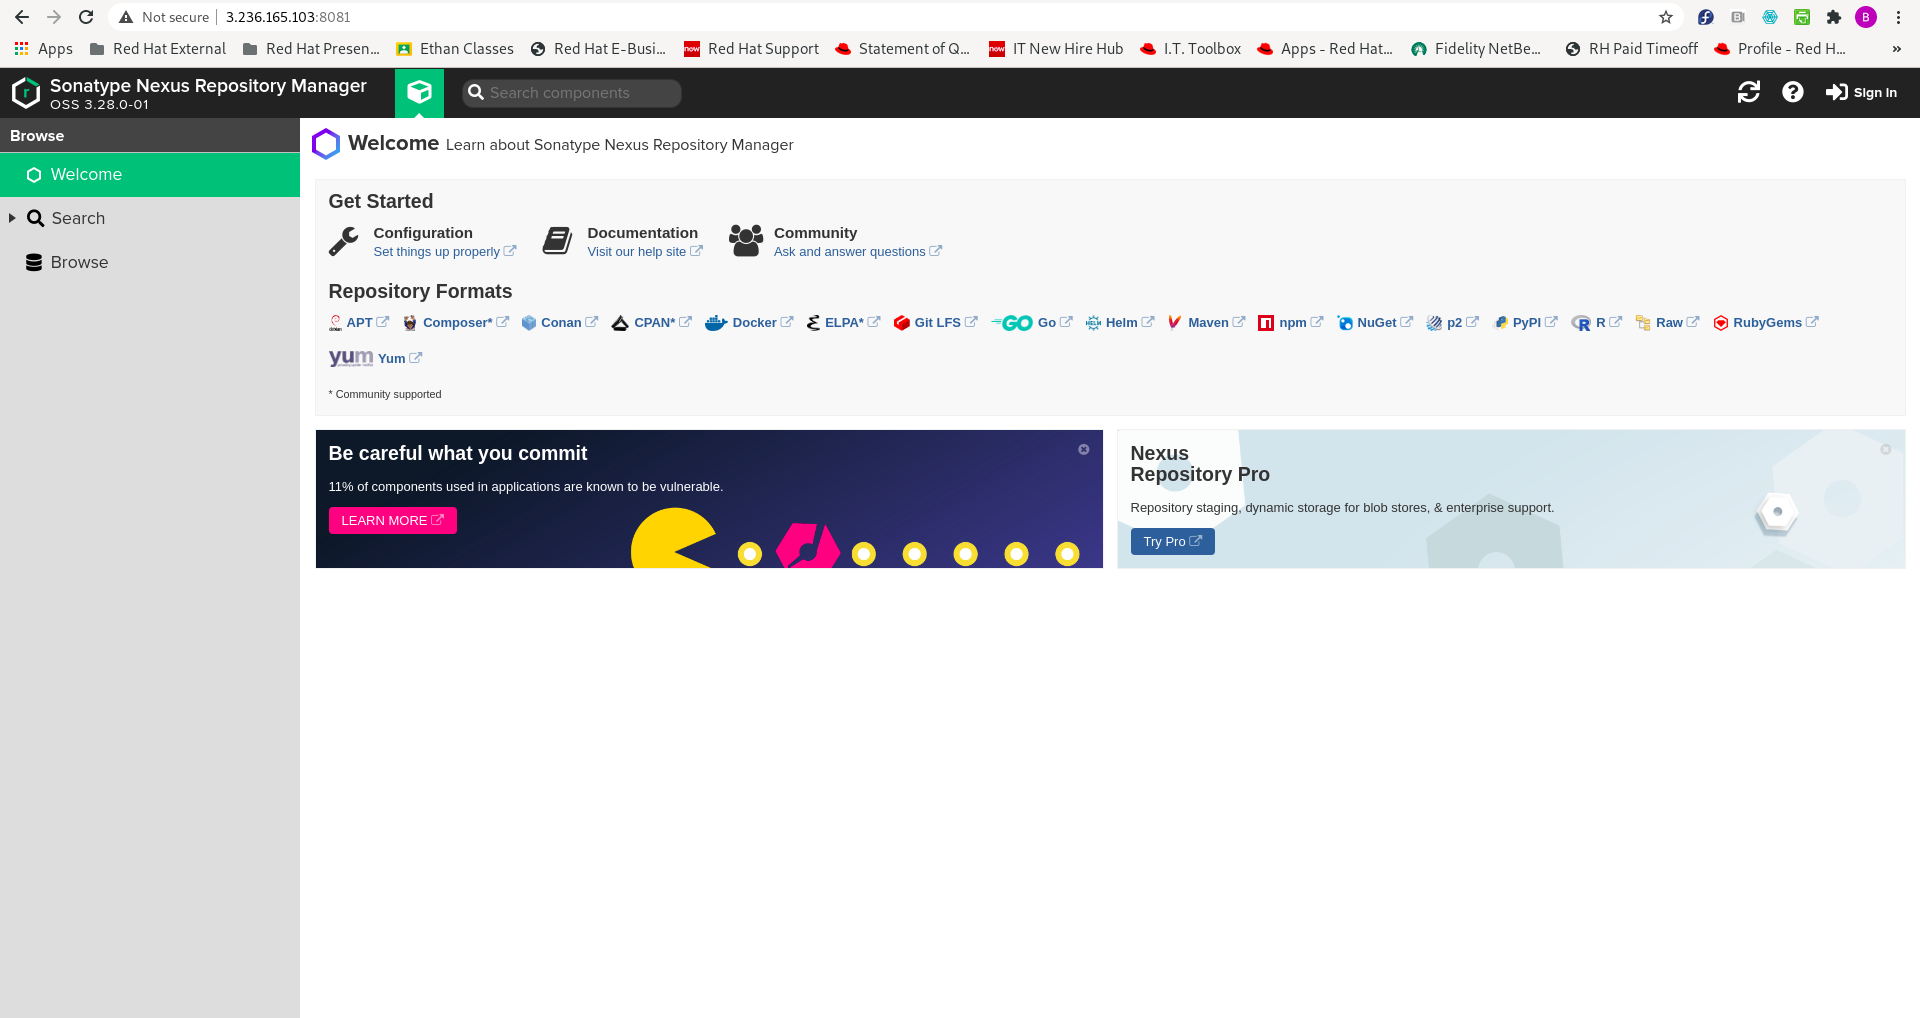
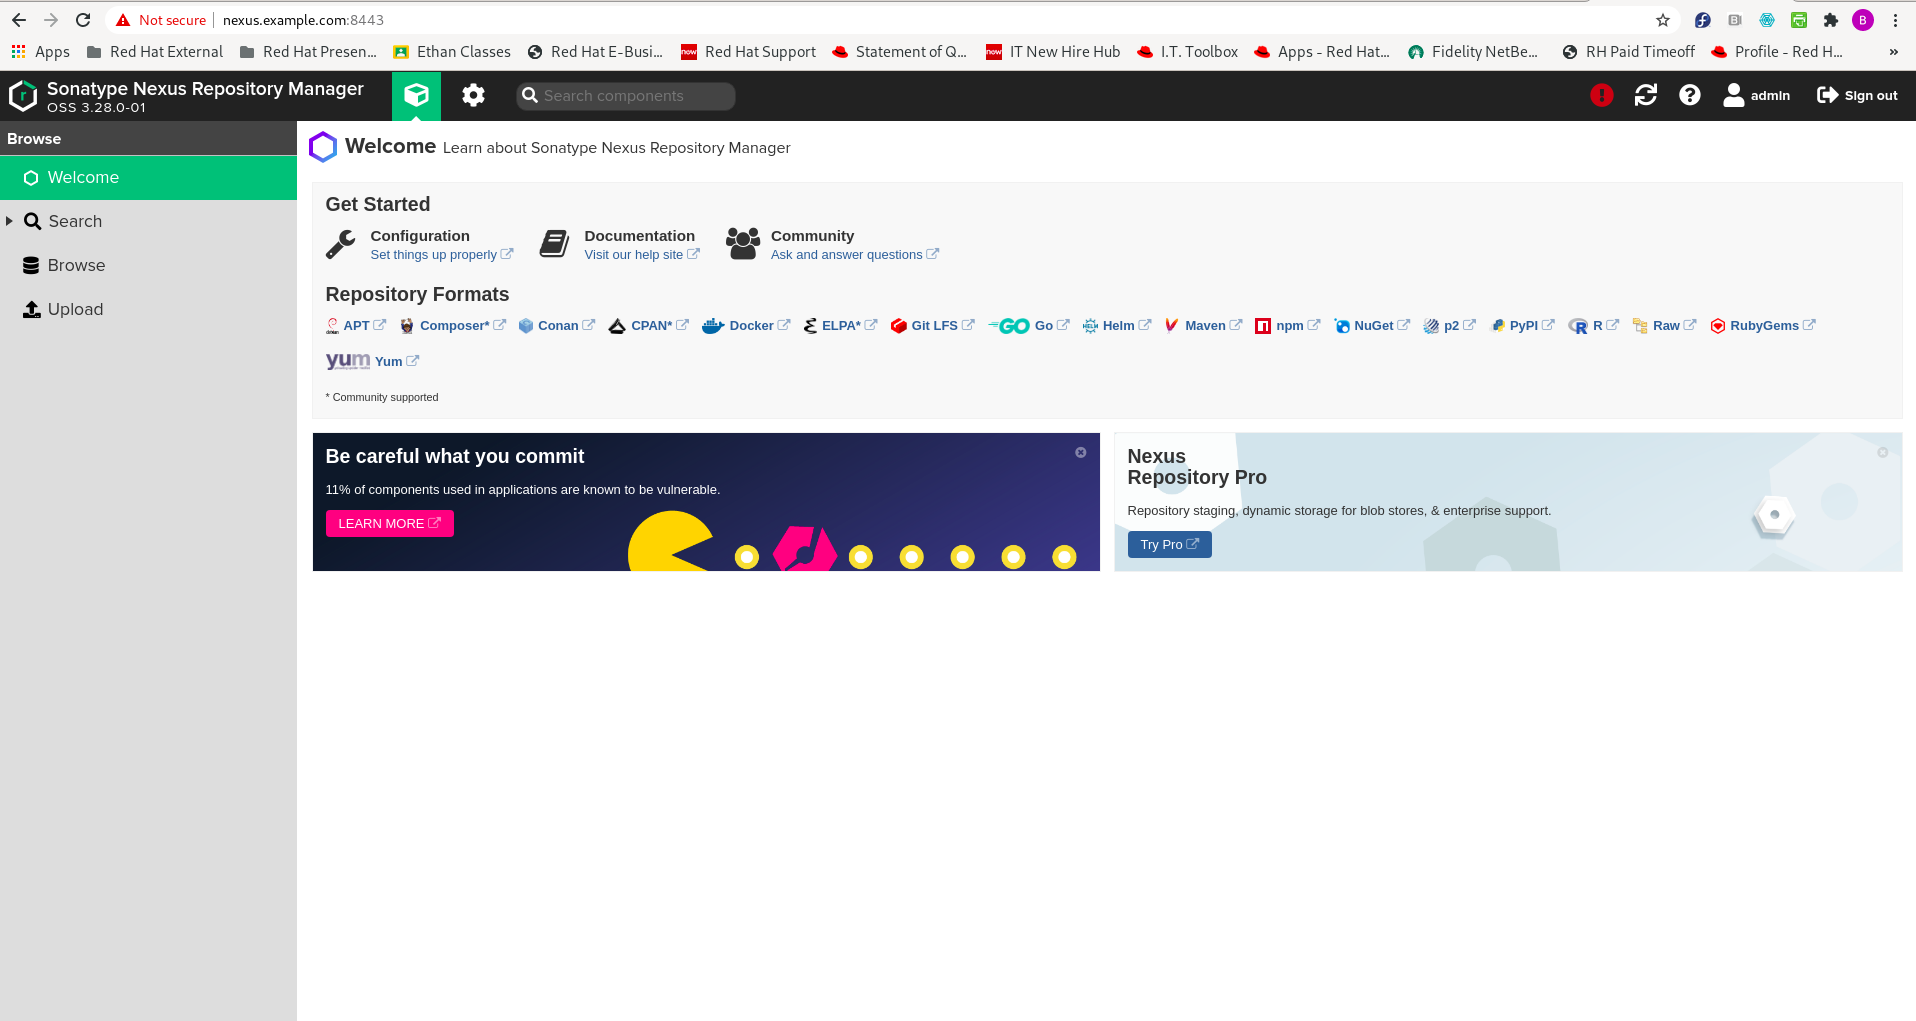
updated resulting web page to show ssl

diff --git a/part6-install-nexus/readme.md b/part6-install-nexus/readme.md
@@ -480,9 +480,6 @@ After the 5th TDD, we can login to our Sonatype Nexus Server by using our public
 target server in AWS and using the port **8443**.  Here is a screen shot of what you should expect.  Your IP
 address will be different.
 
-**TODO:** REPLACE IMAGE WITH SSL....
-
 ![installed-sonatype-nexus](../images/installed_nexus_repo_picture.png)
     
-
 We have finished the nexus tutorial.  Please continue with the tutorials [here](../readme.md).
